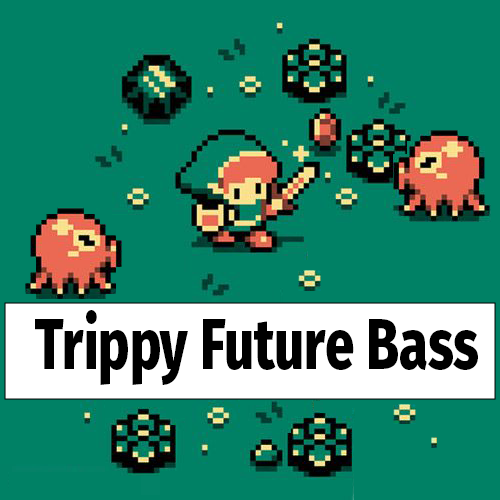
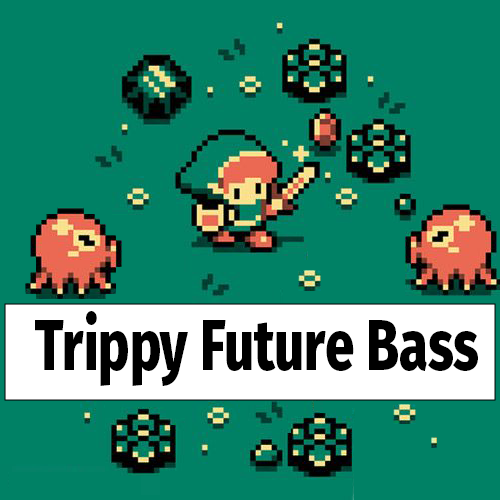
adding pic

diff --git a/src/data/data.js b/src/data/data.js
@@ -4,7 +4,7 @@ export const data = [
     price: "1",
     id: "1",
     title: "Deep-House Vibes",
-    img: "https://github.com/trippyy28/trippyysamplesdemo/blob/master/src/imgs/DeepHouseVibes2.png?raw=true",
+    img: "https://github.com/trippyy28/trippyysamplesdemo/blob/master/src/imgs/DeepHouseVibes.png?raw=true",
     audioUrl:
       "https://www.fesliyanstudios.com/musicfiles/2019-12-11_-_Retro_Platforming_-_David_Fesliyan/2019-12-11_-_Retro_Platforming_-_David_Fesliyan.mp3",
     moreInfo: "Deep-House Vibes is a ...",
